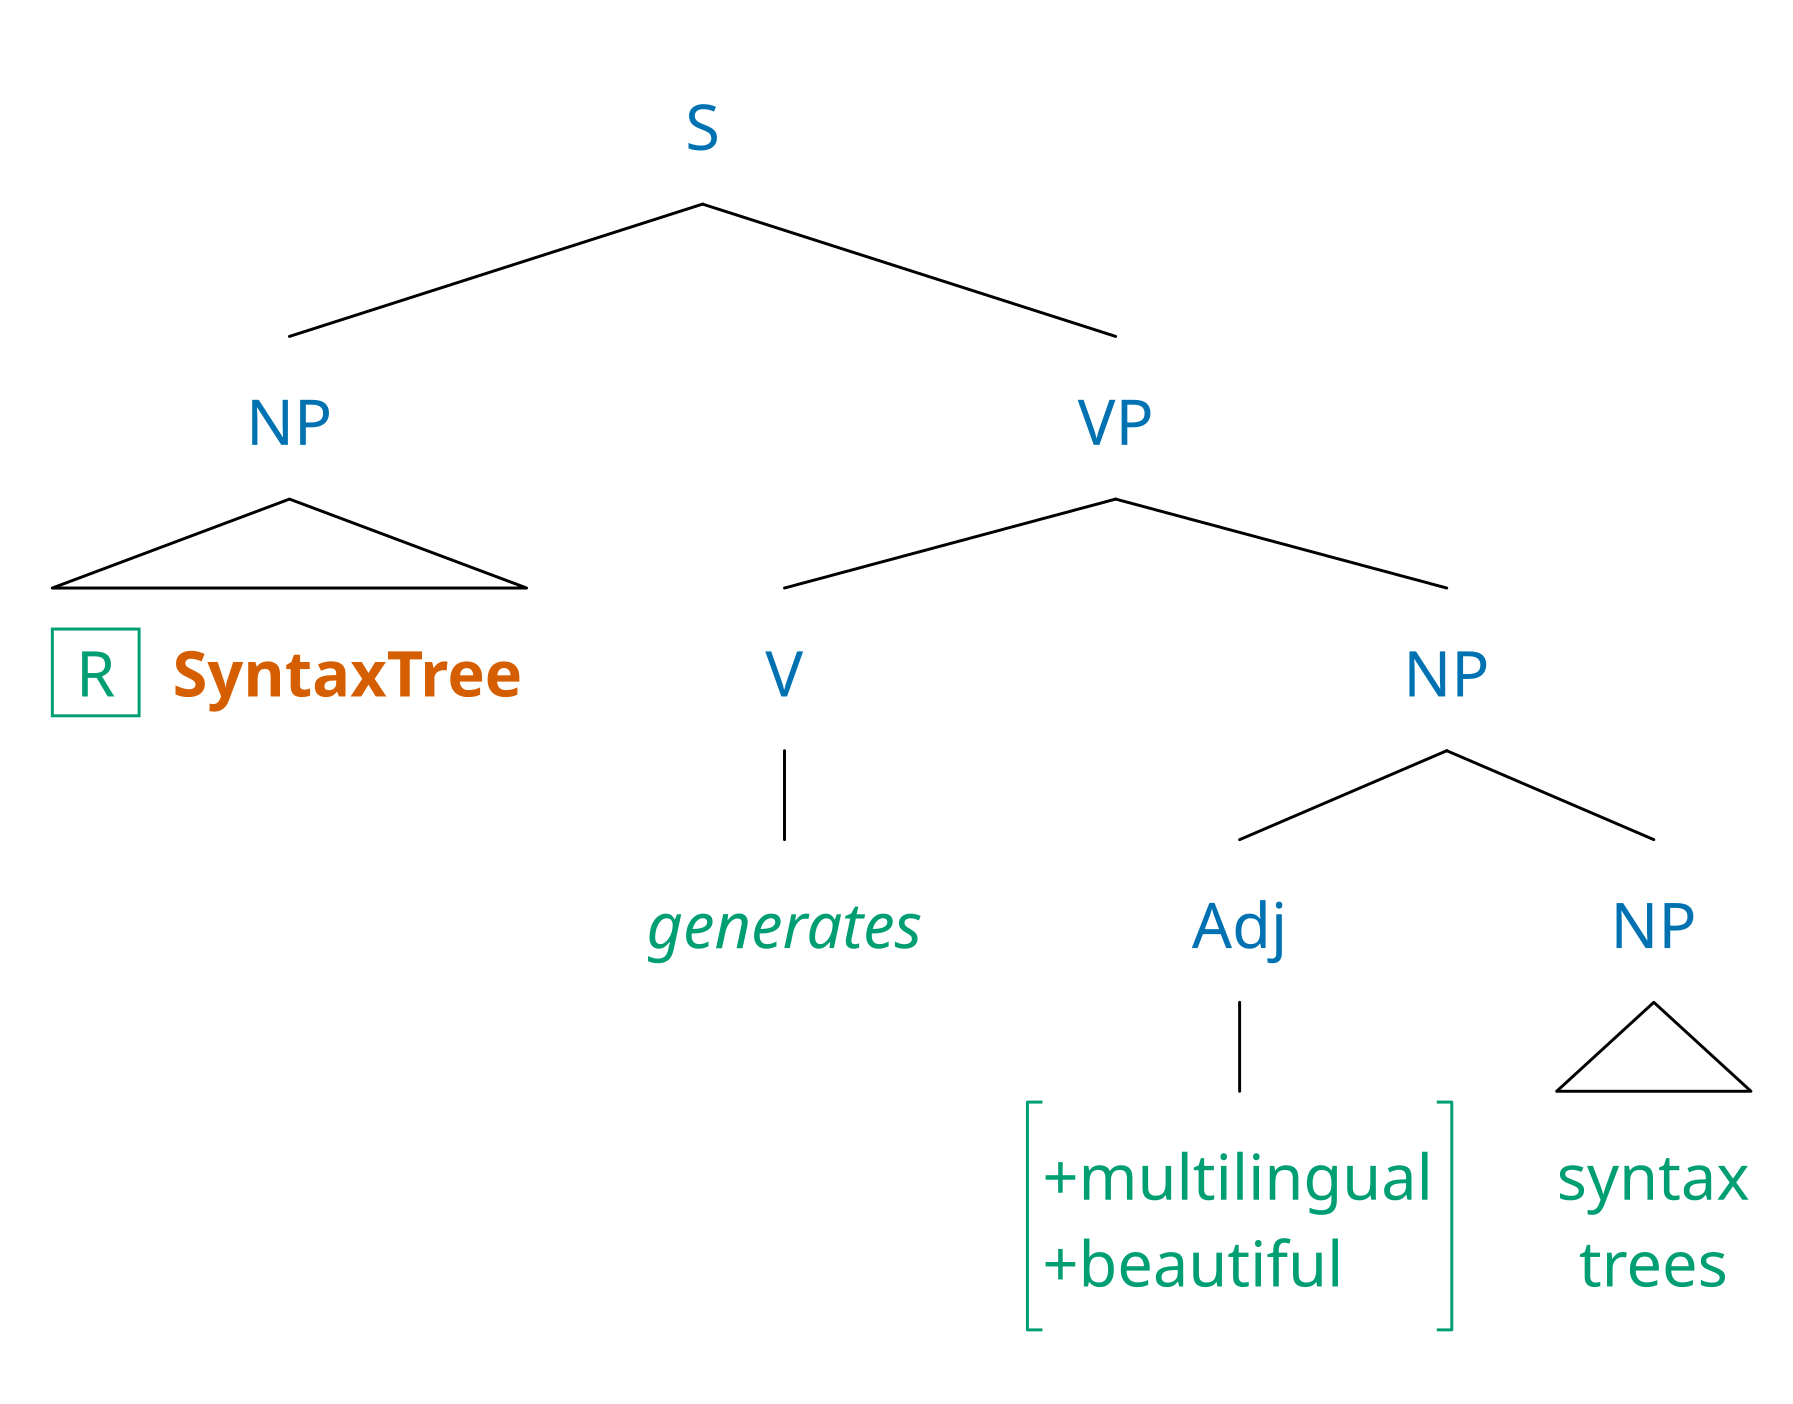
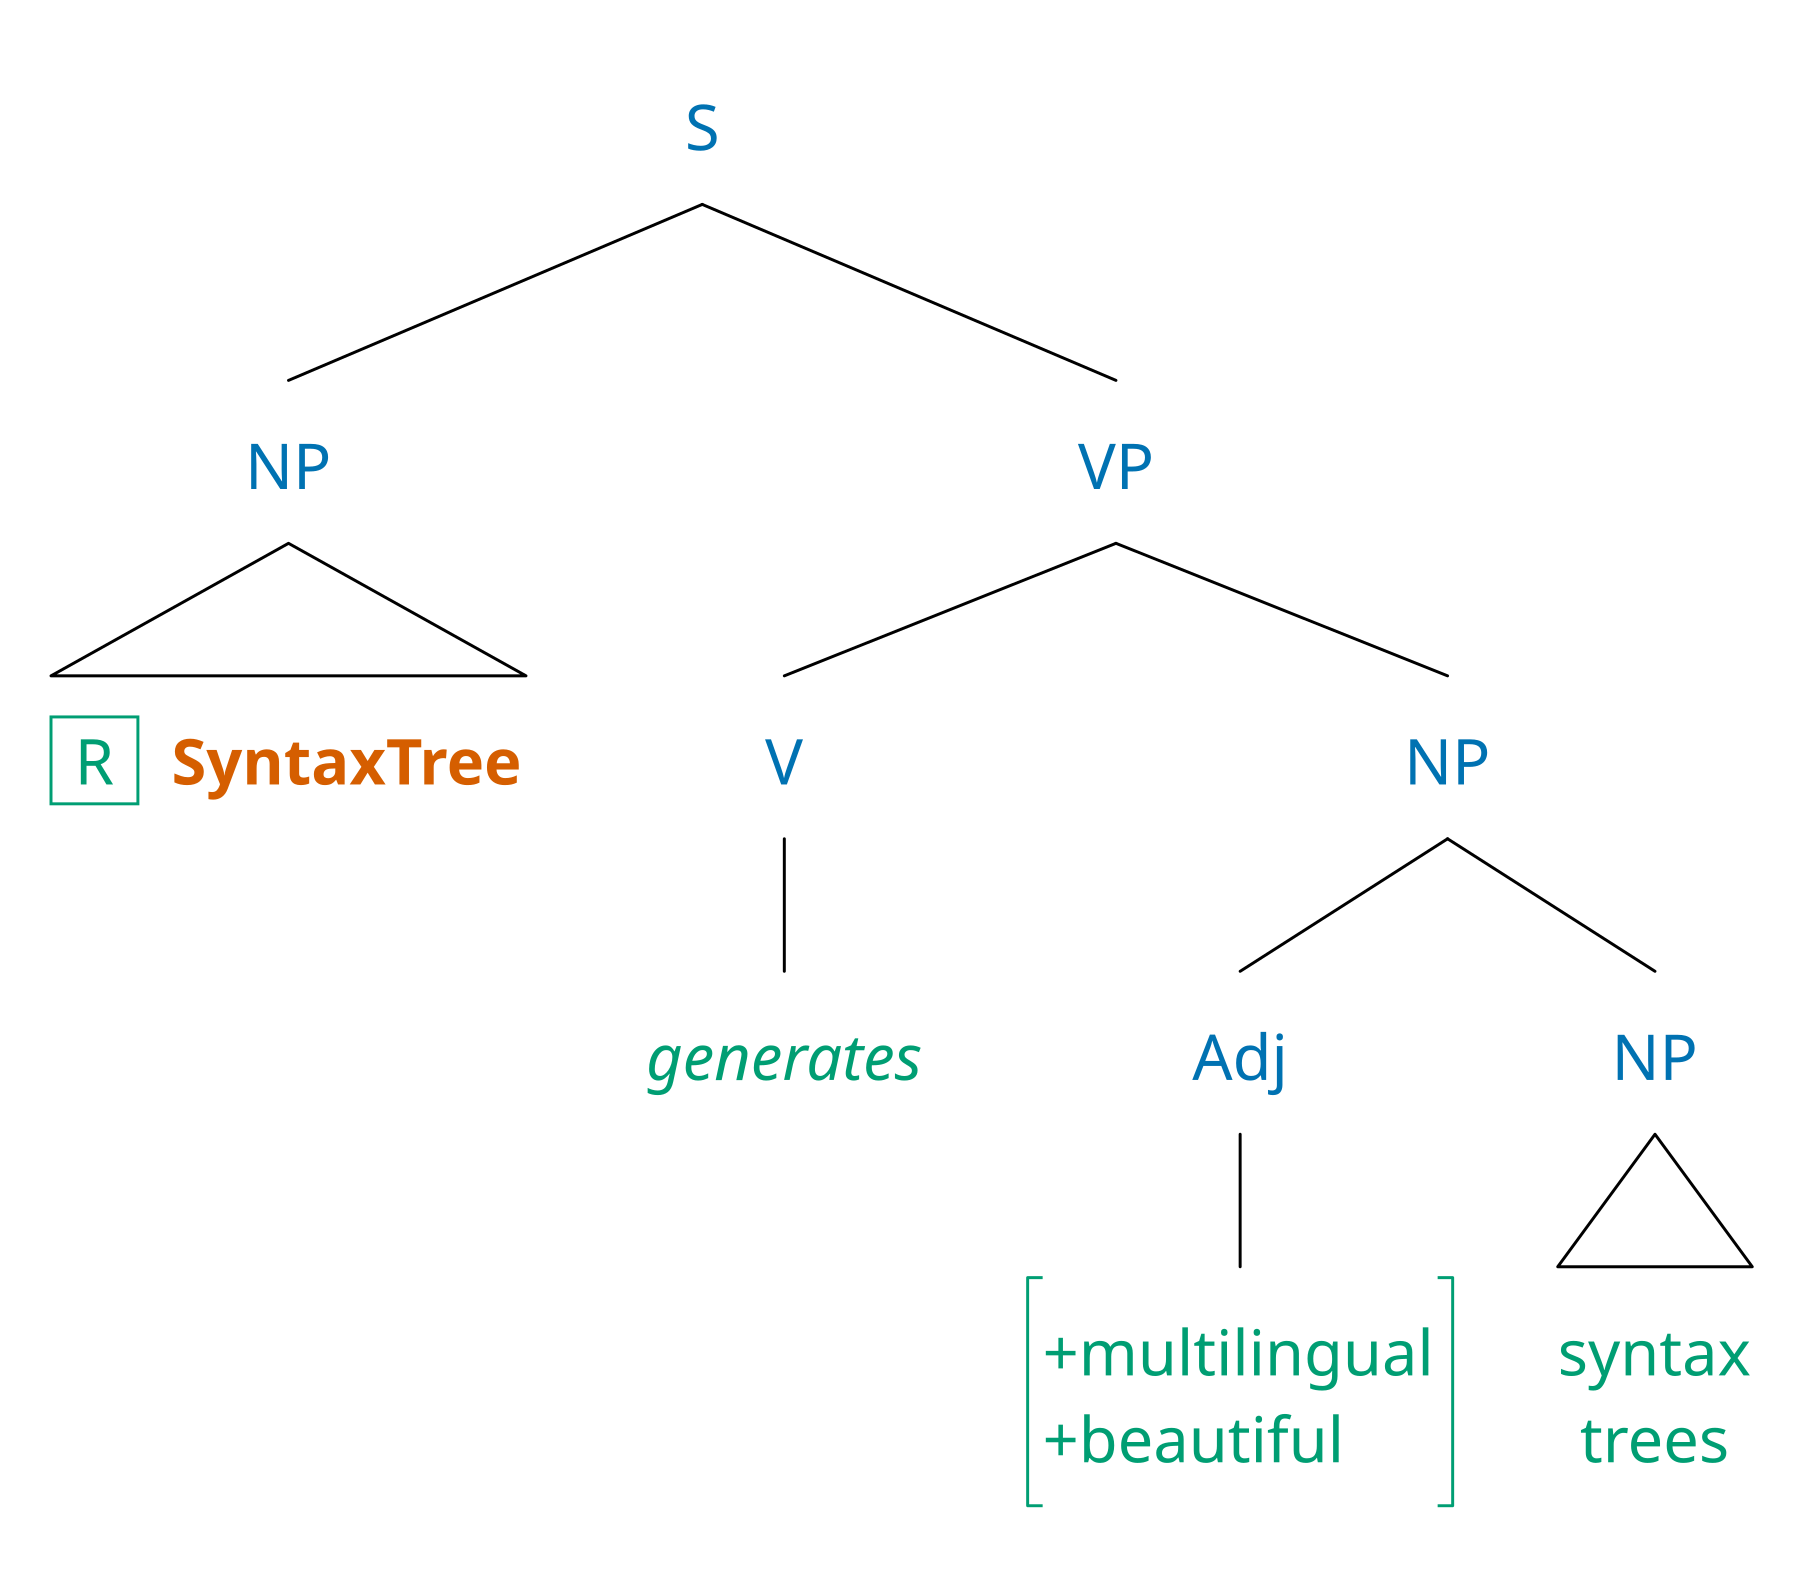
Connector height of examples changed

diff --git a/docs/_examples/000.md b/docs/_examples/000.md
@@ -6,7 +6,7 @@ category: "General"
 polyline: "off"
 symmetrization: "off"
 connector: "auto"
-connector_height: "1"
+connector_height: "1.5"
 linewidth: "1"
 hide_default_connectors: "off"
 font: "Noto Sans"
